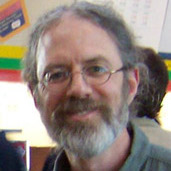
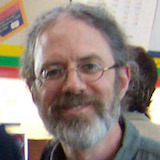
apply image optimizations again, update home template

diff --git a/src/templates/home.html b/src/templates/home.html
@@ -21,14 +21,14 @@
         </div>
         <div class="card">
           <div class="card-body text-center">
-            <img src="https://via.placeholder.com/200?text=Image" class="img-thumbnail img-responsive rounded-circle my-2">
+            <img src="media/people/brian_spitzer.jpg" class="img-thumbnail img-responsive rounded-circle my-2">
             <h5 class="card-title my-2">Brian Spitzer</h5>
             <p class="card-text my-2">Developer</p>
           </div>
         </div>
         <div class="card">
           <div class="card-body text-center">
-            <img src="media/people/amanda_wakefield.PNG" class="img-thumbnail img-responsive rounded-circle my-2">
+            <img src="media/people/amanda_wakefield.jpg" class="img-thumbnail img-responsive rounded-circle my-2">
             <h5 class="card-title my-2">Amanda Wakefield</h5>
             <p class="card-text my-2">Developer</p>
           </div>
